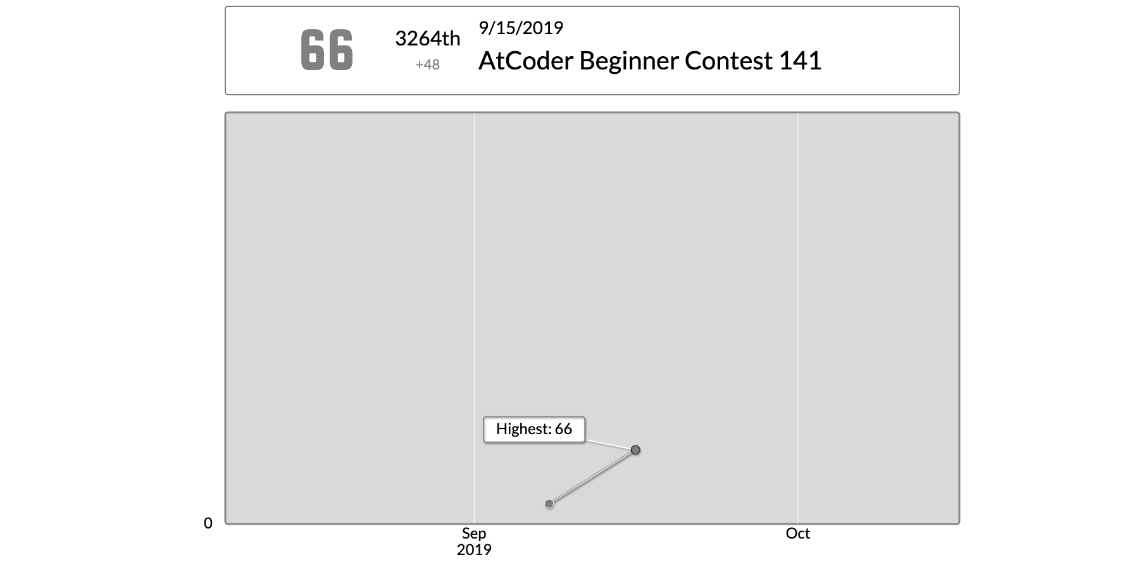
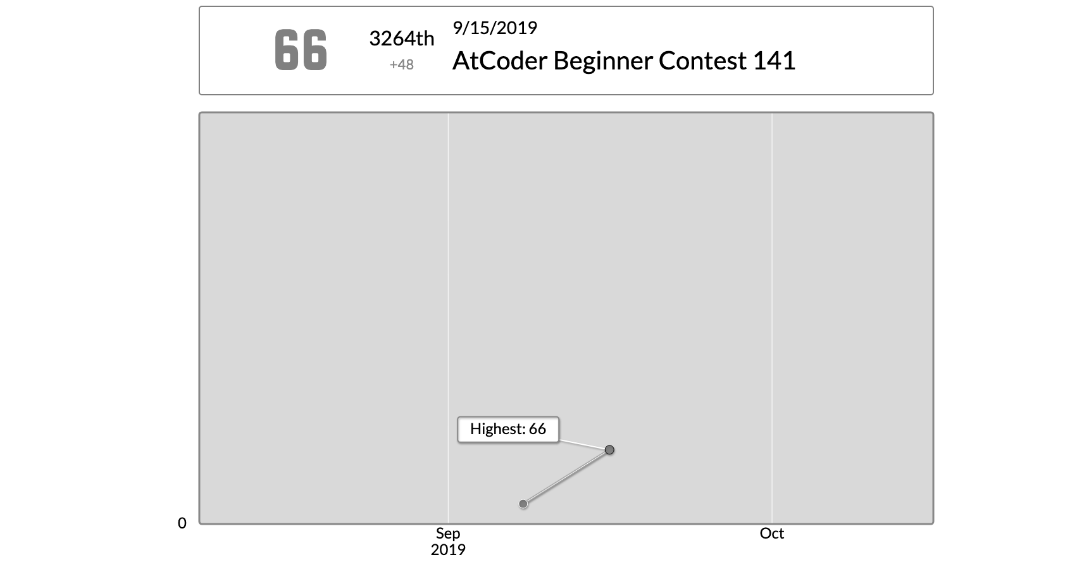
画像比を1.91:1に変更

diff --git a/capture_rate.py b/capture_rate.py
@@ -1,9 +1,12 @@
 #!/usr/bin/env python
 # -*- coding: utf-8 -*-
 
+import math
 from selenium import webdriver
 from selenium.webdriver.chrome.options import Options
 from PIL import Image
+
+image_path = "./docs/image/screenshot.png"
 
 
 def main():
@@ -19,24 +22,24 @@ def capture_atcoder_rating():
     driver.set_window_size(1920, 1080)
     driver.find_element_by_id("rating-graph-expand").click()
     png = driver.find_element_by_class_name("mt-2").screenshot_as_png
-    with open("./docs/image/screenshot.png", "wb") as f:
+    with open(image_path, "wb") as f:
         f.write(png)
     driver.close
 
 
 def resize_image():
-    image = Image.open('./docs/image/screenshot.png')
+    image = Image.open(image_path)
     width, height = image.size
     margin_width = 0
     margin_height = 0
-    if width < height * 2:
-        margin_width = (height * 2 - width) // 2
+    if width < height * 1.91:
+        margin_width = math.floor((height * 1.91 - width) / 2)
     else:
-        margin_height = (width / 2 - height) // 2
+        margin_height = math.floor((width / 1.91 - height) / 2)
     add_margin_image = Image.new(
         image.mode, (width + margin_width * 2, height + margin_height * 2), (255, 255, 255))
     add_margin_image.paste(image, (margin_width, margin_height))
-    add_margin_image.save("./docs/image/screenshot.png", quality=100)
+    add_margin_image.save(image_path, quality=100)
 
 
 if __name__ == "__main__":
